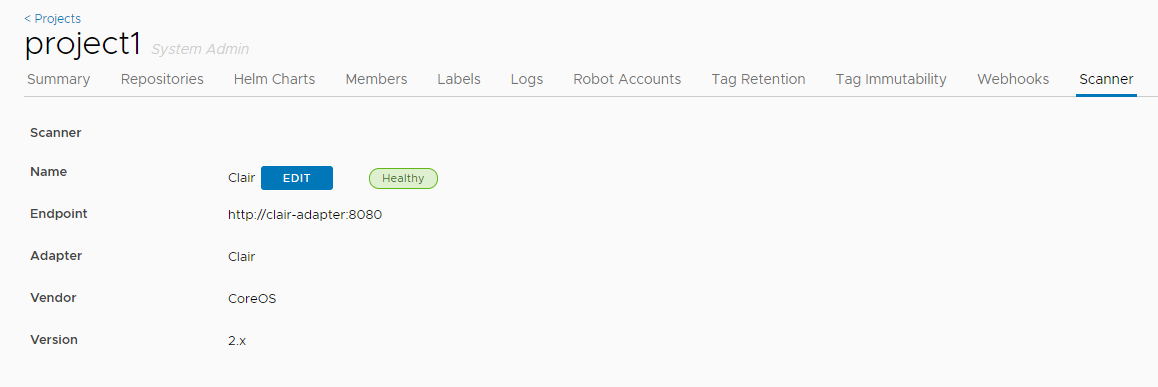
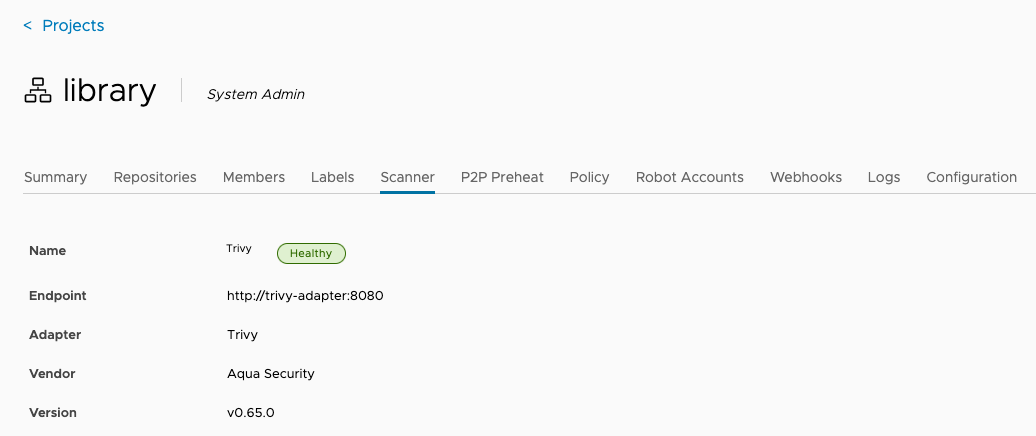
update scanning related
1, update the images according the latest change.
2, update the button text accordingly.

diff --git a/docs/administration/vulnerability-scanning/scan-individual-artifact.md b/docs/administration/vulnerability-scanning/scan-individual-artifact.md
@@ -25,7 +25,7 @@ weight: 30
 
     ![Artifact vulnerability status](../../../img/artifact-vulnerability-status.png)
 
-1. Select a artifact, or use the check box at the top to select all artifacts in the repository, and click the **Scan** button to run the vulnerability scan on this artifact.
+1. Select a artifact, or use the check box at the top to select all artifacts in the repository, and click the **Scan Vulnerability** button to run the vulnerability scan on this artifact.
 
     ![Scan an artifact](../../../img/scan-artifact.png)
 
